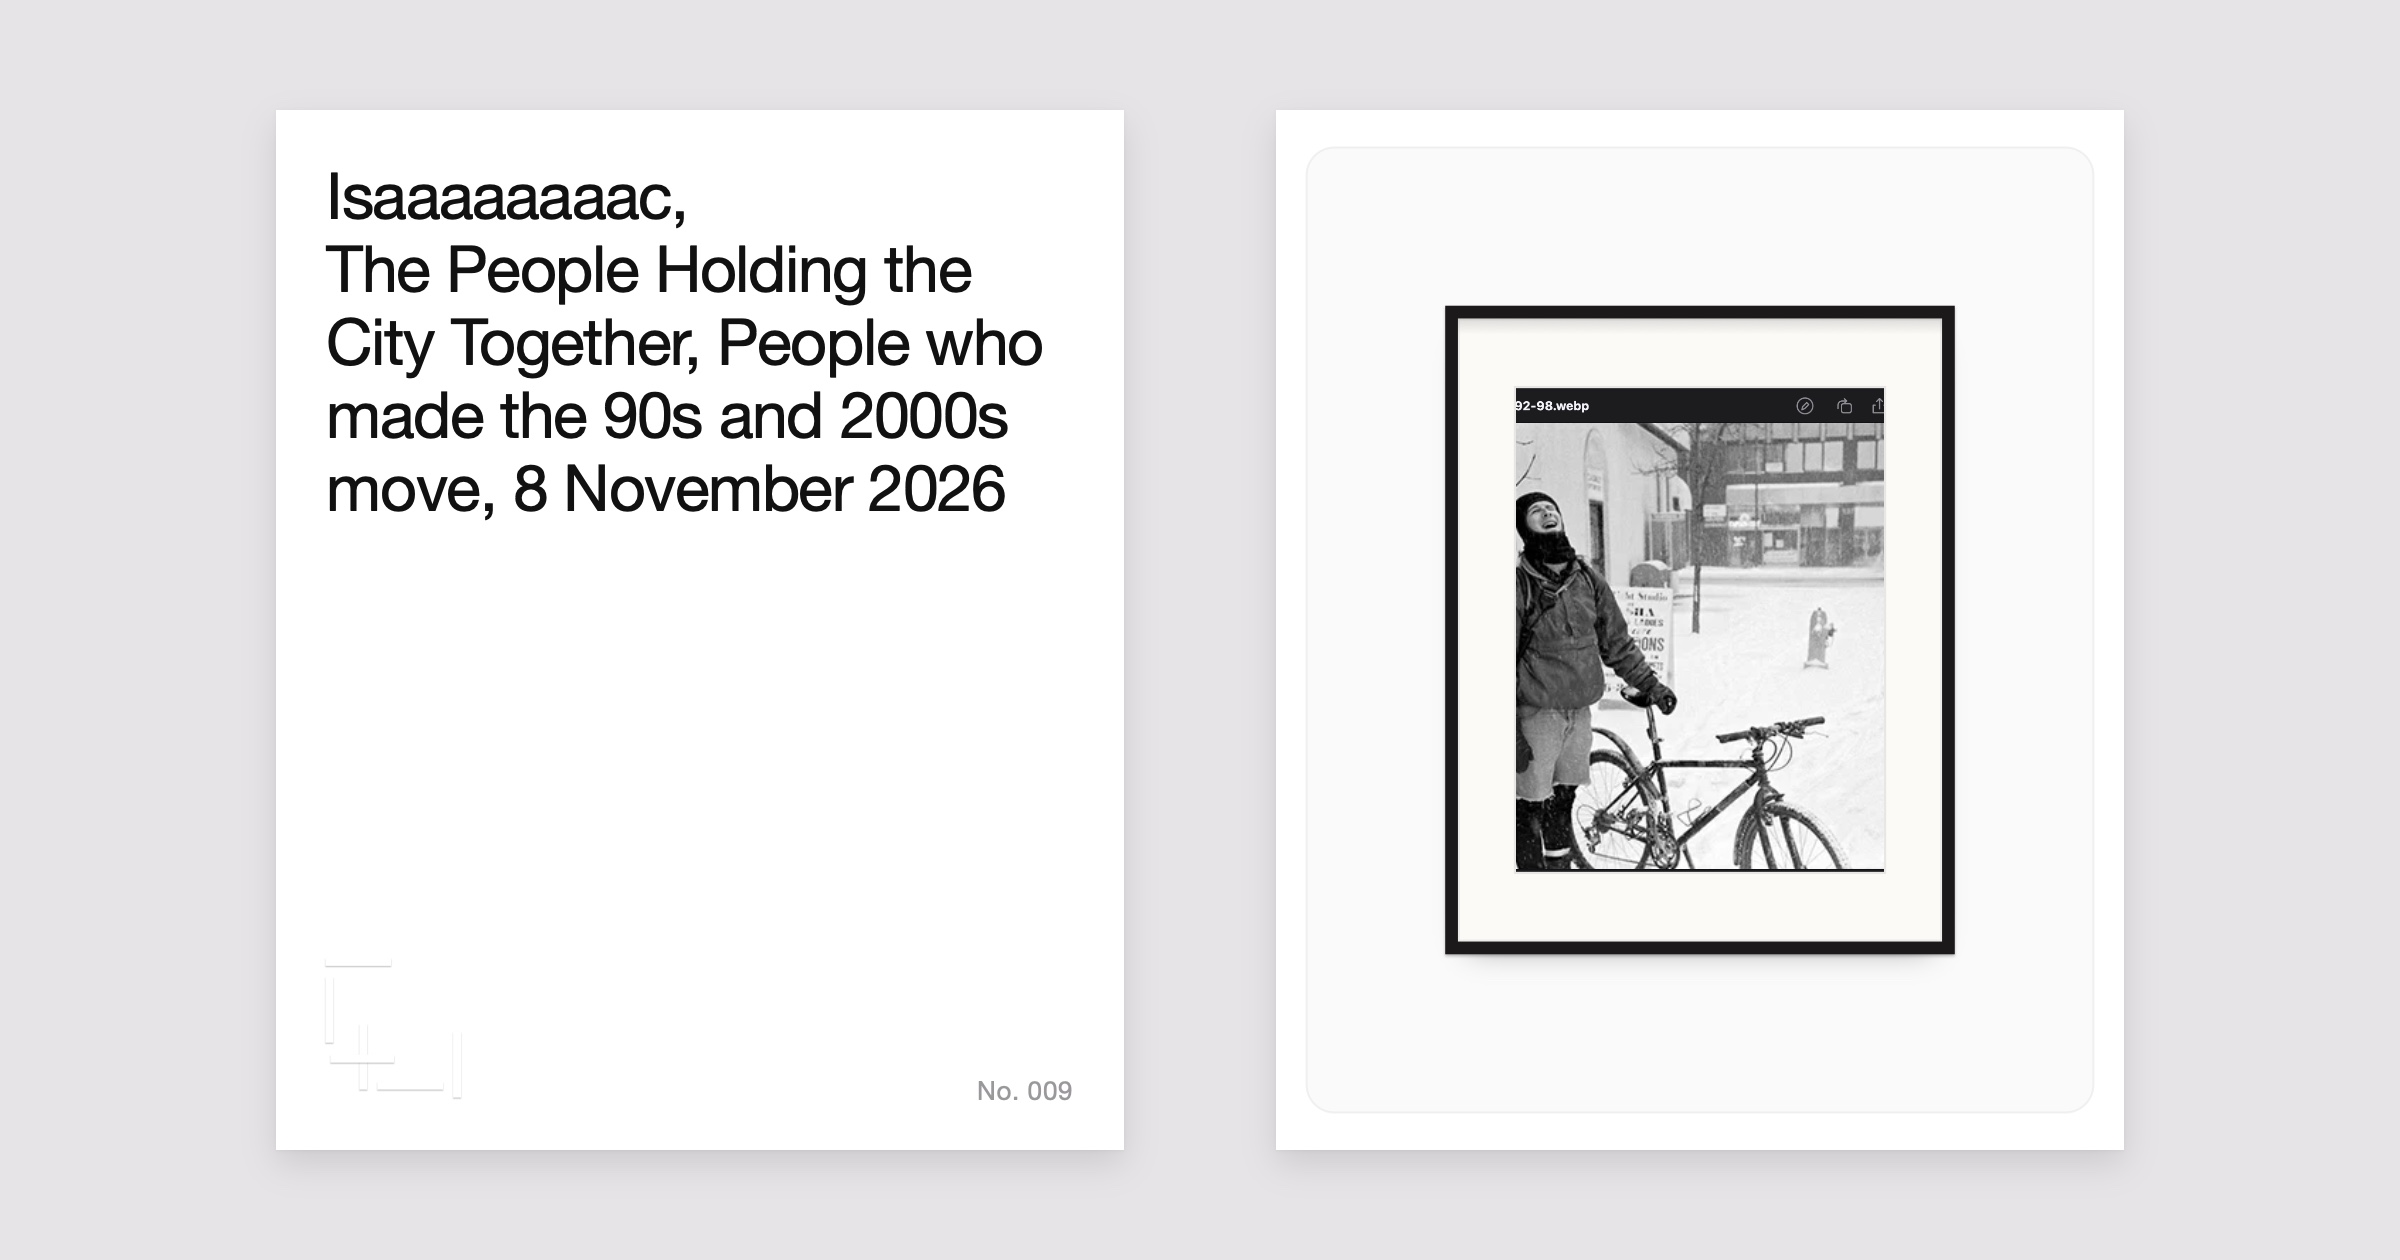
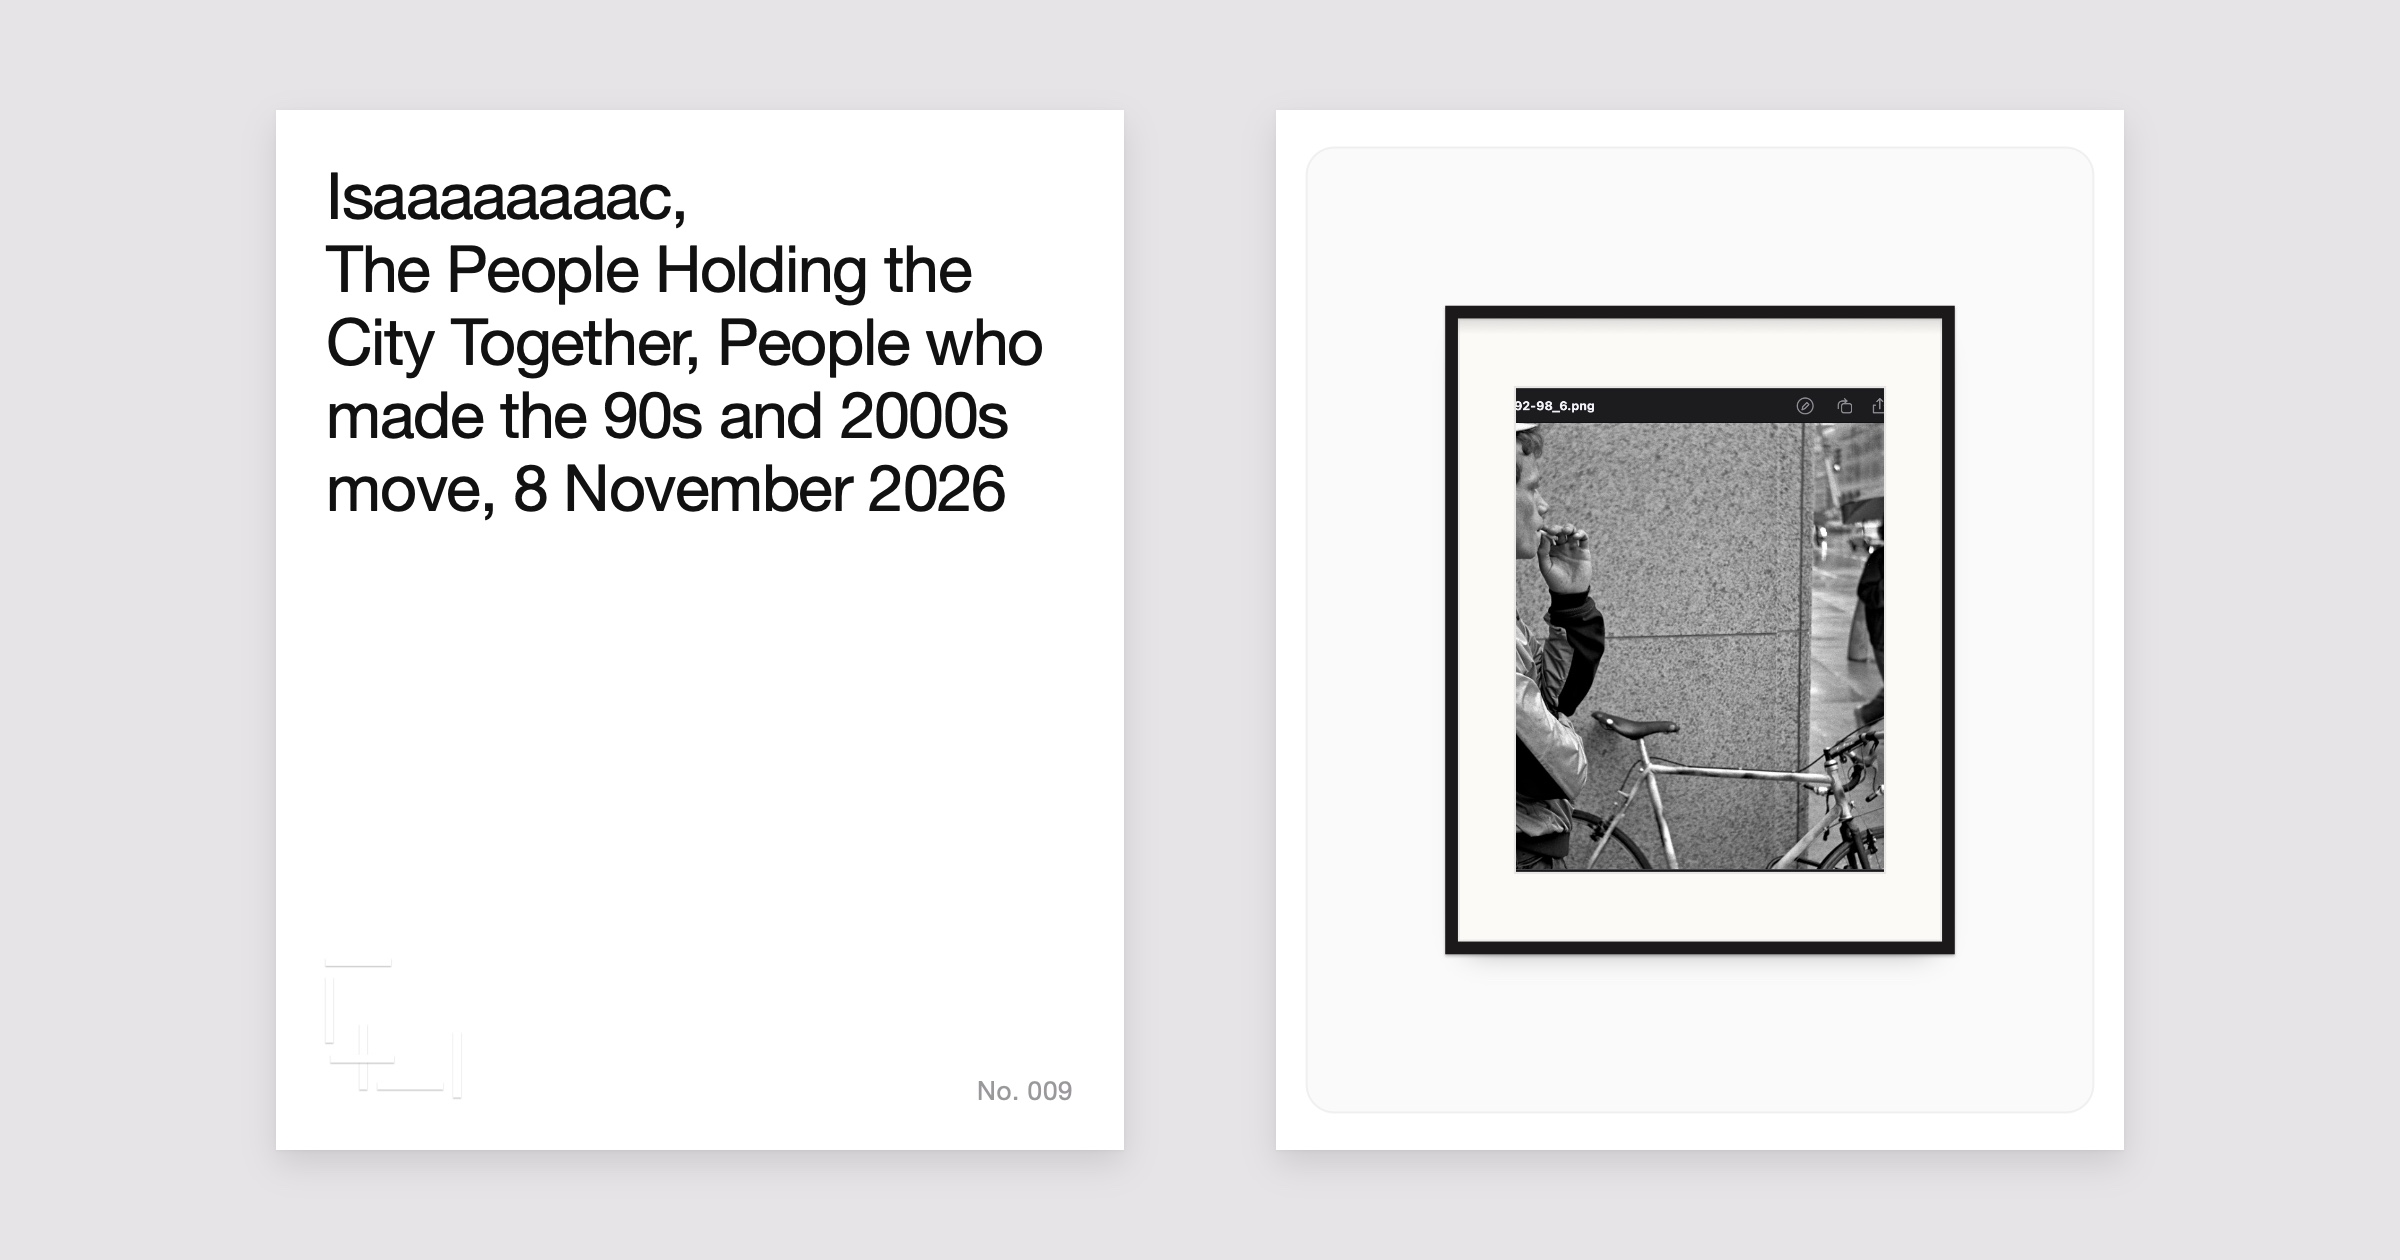
Curation: publish "The People Holding the City Together"

Changed region(s): [[0.625, 0.3095, 0.8125, 0.7119]]

diff --git a/curation/the-people-holding-the-city-together/index.html b/curation/the-people-holding-the-city-together/index.html
@@ -12,13 +12,13 @@
   <meta property="og:title" content="The People Holding the City Together" />
   <meta property="og:description" content="Isaaaaaaaac — People who made the 90s and 2000s move" />
   <meta property="og:url" content="https://buildtoberemembered.com/curation/the-people-holding-the-city-together/" />
-  <meta property="og:image" content="https://buildtoberemembered.com/curation/media/the-people-holding-the-city-together/share.jpg?v=mw821rsl" />
+  <meta property="og:image" content="https://buildtoberemembered.com/curation/media/the-people-holding-the-city-together/share.jpg?v=mw823k3z" />
   <meta property="og:image:width" content="2400" />
   <meta property="og:image:height" content="1260" />
   <meta name="twitter:card" content="summary_large_image" />
   <meta name="twitter:title" content="The People Holding the City Together" />
   <meta name="twitter:description" content="Isaaaaaaaac — People who made the 90s and 2000s move" />
-  <meta name="twitter:image" content="https://buildtoberemembered.com/curation/media/the-people-holding-the-city-together/share.jpg?v=mw821rsl" />
+  <meta name="twitter:image" content="https://buildtoberemembered.com/curation/media/the-people-holding-the-city-together/share.jpg?v=mw823k3z" />
   <meta name="theme-color" content="#e6e4e6" />
   <link rel="icon" type="image/png" sizes="64x64" href="/assets/favicon-p3-dark.png?v=5" media="(prefers-color-scheme: light)" />
   <link rel="icon" type="image/png" sizes="64x64" href="/assets/favicon-p3-light.png?v=5" media="(prefers-color-scheme: dark)" />
